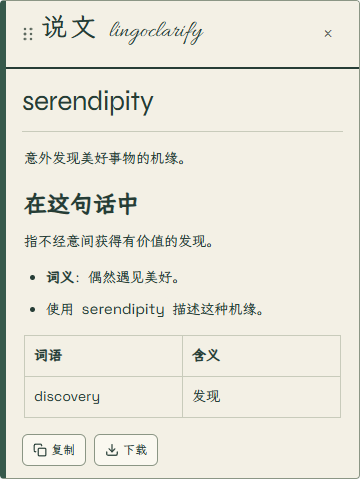
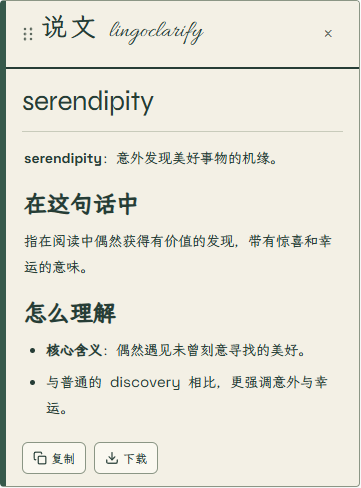
docs: refresh the 1.0.0 homepage and current UI screenshots

diff --git a/README.md b/README.md
@@ -1,146 +1,157 @@
+<p align="center">
+  <img src="icons/icon128.png" width="80" height="80" alt="说文：米白底、墨绿引号图标">
+</p>
+
 # 说文 · LingoClarify
 
-**网页划词翻译、语境解释与全文翻译。**
+**选中即读懂，整页也能译。**
 
-AI Translation & Contextual Explanation for the Web
+说文是一款使用自备 API Key 的浏览器扩展，支持网页划词翻译、语境解释与全文翻译。选中词语、句子或其他内容，在当前页面阅读回答；遇到整页外语，也可以开启全文翻译并随时切回原文。
 
-说文是一款使用自备 API Key 的 Manifest V3 浏览器扩展。选中网页上的词语、句子或其他内容，即可在当前页面查看流式回答；也可以翻译整页并随时切回原文。
+**当前版本：1.0.0** · 原生 Manifest V3 · 无需构建 · 已在 Microsoft Edge 中验收
 
-当前版本：**1.0.0**。源码可直接在 Edge 中加载，无需构建或安装 npm 依赖。
+[安装与配置](#安装与配置) · [使用方法](#使用方法) · [接口与模型](#接口与模型) · [常见问题](#常见问题) · [开发说明](docs/DEVELOPMENT.md)
 
 ## 能做什么
 
-- **划词翻译与解读**：解释词义、概念、句意和语境，也能处理代码、公式、表格中的选区及不完整片段。
-- **全文翻译**：处理视口附近及滚动出现的文字，继续响应动态新增、更新或展开的内容，支持原文/译文切换与取消。
-- **流式 Markdown 浮层**：正文按动画帧逐步显示 Markdown 原文，播放完成后排版为标题、强调、列表、引用和代码等；可按住顶部拖动。
-- **复制与笔记下载**：复制回答的 Markdown 原文，或下载包含所选原文和回答的 TXT。
-- **解释与翻译分别配置**：两个用途可选择不同厂家、模型和语言；各厂家保存自己的 Key 和模型列表。
-- **自定义接口**：可连接满足兼容协议的第三方网关、聚合服务或本机服务。
-- **三种主题**：纸本文笺（默认）、清浅青、冷灰蓝，设置、划词浮层与全文工具栏同步切换。
+| 功能 | 使用体验 |
+| --- | --- |
+| 划词翻译与语境解释 | 解释词义、概念和句意，也能结合选区处理代码、公式、表格与不完整片段 |
+| 全文翻译 | 翻译视口附近和滚动出现的文字，响应动态内容，支持原文/译文切换与取消 |
+| 可拖动的流式浮层 | 回答逐帧显示，完成后排版为 Markdown；可拖到合适位置阅读 |
+| 复制与笔记下载 | 复制完整 Markdown 原文，或下载包含所选原文和回答的 TXT |
+| 两套独立用途配置 | 解释与翻译可分别选择厂家、模型、语言及思考设置 |
+| 自定义兼容接口 | 连接支持所需协议的第三方网关、聚合服务或本机服务 |
+| 三种阅读配色 | 纸本文笺（默认）、清浅青、冷灰蓝，设置页、结果浮层与全文工具栏同步切换 |
 
-## 安装与首次配置
+默认的**纸本文笺**采用米白纸色与墨绿文字，扩展图标也使用相同配色。中文使用本地霞鹜文楷屏幕阅读版，英文正文与标题使用 Space Grotesk / Syne，浮层英文字标使用 Allura 连笔手写体；字体随扩展打包，无需访问字体 CDN。
 
-需要 Edge、所选服务的 API Key，以及兼容的模型列表与流式生成接口。扩展本身不提供免费模型额度；调用费用和权限由所选服务决定。
+## 界面预览
 
-克隆仓库：
+### 设置页
+
+<img src="docs/materials/screenshots/settings.png" width="390" alt="说文 1.0.0 设置页：纸本文笺配色、模型选择、思考模式与划词触发设置">
+
+### 划词结果
+
+<img src="docs/materials/screenshots/result.png" width="360" alt="说文划词浮层：固定品牌字标、词条标题、Markdown 回答与复制下载按钮">
+
+截图来自隔离 Edge 中实际加载的扩展，使用合成配置、网页与本机模拟回答。设置页截图展示扩展页面内容，不是原生工具栏弹出窗口；截图不代表真实模型质量或速度。来源见[公开材料说明](docs/materials/README.md)。
+
+## 安装与配置
+
+### 1. 获取源码
+
+[下载 main 分支 ZIP](https://github.com/siwenyu1213/LingoClarify/archive/refs/heads/main.zip)，解压后保留完整文件夹；也可以使用 Git：
 
 ```bash
 git clone https://github.com/siwenyu1213/LingoClarify.git
 ```
 
-也可以在 GitHub 点击 **Code → Download ZIP**，解压后使用包含 `manifest.json` 的文件夹。
+### 2. 在 Edge 中加载
 
-1. 打开 `edge://extensions`，开启“开发人员模式”。
-2. 点击“加载解压缩的扩展”，选择包含 `manifest.json` 的项目根目录。
-3. 点击“说文 · LingoClarify”图标，进入设置窗口。
-4. 在“解释”标签选择模型厂家。使用自定义服务时，先通过“配置自定义接口”保存地址。
-5. 填写该服务的 Key，点击“保存 API Key”，等待模型列表加载，再选择模型和解释语言。
-6. 在“全文翻译”标签配置翻译用途的厂家、模型与目标语言，然后点击“保存设置”。
-7. 打开普通 HTTP/HTTPS 网页，选中文字开始使用。
+1. 打开 `edge://extensions`，开启**开发人员模式**。
+2. 点击**加载解压缩的扩展**，选择包含 `manifest.json` 的项目根目录。
+3. 将“说文 · LingoClarify”固定到工具栏，点击图标打开设置。
 
-![说文设置窗口](docs/materials/screenshots/settings.png)
+根目录可直接加载，无需安装 npm 依赖或执行构建命令。其他浏览器需另行验收。
 
-截图来自实际 Edge 中的扩展设置页，使用本机模拟接口与合成配置，展示当前界面。
+### 3. 配置模型服务
 
-所有下拉列表采用自绘菜单，长列表可搜索，支持键盘选择与Esc关闭。中文使用本地霞鹜文楷屏幕阅读版，英文使用Space Grotesk/Syne，字体随扩展打包，无需连接字体CDN。
+需要所选服务的 API Key，以及兼容的模型列表和流式生成接口。扩展本身不提供免费模型额度；调用费用、权限和额度由所选服务决定。
 
-在底部保存按钮旁选择配色，选择后自动保存，无需点击“保存设置”。三种配色共用词典式布局：题签、页签、当前模型、语言与划词触发设置；主题切换不保存正在编辑的 Key、厂家、模型或语言草稿。
+1. 在**解释**标签选择模型厂家。使用自定义服务时，先通过**配置自定义接口**保存地址。
+2. 填写 Key，点击**保存 API Key**，等待接口模型列表加载，然后选择模型与解释语言。
+3. 在**全文翻译**标签配置翻译用途的厂家、模型与目标语言。
+4. 选择**选中即解释**或**仅右键菜单**，点击**保存设置**。
+5. 打开普通 HTTP/HTTPS 网页，选中文字开始使用。
 
-## 怎么使用
+两个用途选择同一家时共用该厂家的连接；选择不同厂家时，各自使用对应的 Key。模型下拉列表支持搜索和键盘选择。底部配色选择后自动保存，不需要额外点击保存按钮，也不会提交正在编辑的 Key、模型或语言草稿。
+
+## 使用方法
 
 ### 划词翻译与解释
 
-默认选中文字后自动弹出回答，也可以选中文字后右键选择 **“📖 说文：解释选中文字”**。
-
-在设置页的思考强度区域下方，通过“划词触发”选择“选中即解释”或“仅右键菜单”，点击“保存设置”后生效。仅右键模式下，选中文字不会自动请求；右键菜单在两种模式中都可使用。
+默认选中文字后自动弹出回答。也可以选中文字，再右键选择 **“📖 说文：解释选中文字”**。设为“仅右键菜单”后，选中文字不会自动发起请求，右键入口继续可用。
 
 | 选中的内容 | 处理方式 |
 | --- | --- |
-| 外语词语、短语和短片段 | 先给中文含义或译文，再解释词义、概念及必要的语境差异 |
-| 外语完整句子或段落 | 使用翻译配置给出目标语言译文，必要时补充文中含义；完成后可点“解释此句” |
-| 中文词语、名称或句段 | 解释概念、整体意思及关键关系 |
-| 代码、公式、指标、表格或不完整片段 | 使用解释配置，结合选区结构与必要材料处理 |
+| 外语词语、短语与短片段 | 先给中文含义或译文，再解释词义、概念和必要的语境差异 |
+| 外语完整句子或段落 | 使用翻译配置给出目标语言译文，必要时补充文中含义；完成后可点击“解释此句” |
+| 中文词语、名称或句段 | 解释概念、整体意思与关键关系 |
+| 代码、公式、指标、表格或不完整片段 | 使用解释配置，结合选区结构和必要材料处理 |
 
-扩展先在本地判断选区类型，再发送一次生成请求。分类规则不是完整语言识别器，实际解释质量仍取决于模型和提供的材料。
+扩展先在本地判断选区类型，再发送一次生成请求。分类规则并非完整语言识别器，实际回答取决于模型与提供的材料。
 
-浮层会尝试避开原文选区，空间不足时限制高度并在内部滚动。**在顶部按住鼠标左键即可拖动**，按下时显示抓取光标，松开后恢复。拖动后的位置在流式更新和页面滚动时保留；重新划词会重新自动定位。点击浮层外部、关闭按钮或按 Esc 可关闭。
+- **移动浮层**：在顶部按住鼠标左键拖动。拖动后的位置在流式更新和页面滚动时保留；重新划词后恢复自动定位。
+- **关闭浮层**：点击外部、关闭按钮，或按 `Esc`。
+- **阅读回答**：流式阶段逐帧显示 Markdown 原文，可能暂时看到 `**`、`#` 等标记；队列播放完成后统一安全排版，支持标题、强调、列表、引用、代码、表格和链接。长代码与表格可以横向滚动。
+- **复制或保存**：正文与思考都播放完成后显示操作按钮。复制保留 Markdown 原文；下载保存为 `笔记/说文_时间戳.txt`，包含所选原文和完整回答。“已开始下载”表示浏览器已接受任务，最终状态以下载管理器为准。
 
-![说文划词结果浮层](docs/materials/screenshots/result.png)
-
-截图中的回答由本机模拟接口提供，仅演示界面与 Markdown 排版，不代表真实模型效果。
-
-回答优先给出核心译文、定义或结论，必要时用小标题和列表组织解释。概念可配简短例子，翻译不额外生成例句。实际格式由模型决定。
-
-浮层支持 Markdown 标题、加粗、斜体、列表、引用、代码、表格、链接等显示；表格与长代码可独立横向滚动。复制保留 Markdown 原文。下载文件位于浏览器下载目录的 `笔记/说文_时间戳.txt`；“已开始下载”表示浏览器已接受任务，最终保存状态以下载管理器为准。
-
-流式阶段先逐帧显示 Markdown 原文，因此可暂时看到 `**`、`#` 等标记；队列播完后统一安全排版一次。正文与思考过程独立播放，每个区域每帧最多追加2048字符；完成消息不会清空后重播。复制、下载和“解释此句”在两条队列播完后出现。
+浮层会尝试避开原文，空间不足时限制高度并在内部滚动。回答优先给出核心译文、定义或结论，必要时使用小标题、列表或概念例子；实际格式由模型决定。
 
 ### 全文翻译
 
 在普通网页空白处右键选择 **“🌐 说文：全文翻译”**。
 
-顶部工具栏显示进度，可切换原文/译文或取消。译文按原有文本节点写入，保留链接、图片、强调结构及元素引用；滚动附近的内容和动态文字会继续处理。取消时恢复仍由扩展写入的文字，尽量保留网页自身的更新。
+页面顶部中央显示进度栏，可切换原文/译文或取消。栏下方的**方框箭头**用于收起或展开整条进度栏；隐藏后翻译继续运行，展开时显示最新进度。隐藏时再次通过右键启动全文翻译，也会打开当前进度栏。
 
-进度栏位于网页顶部中央，桌面宽度约为页面的三分之一，窄屏自动适应。栏下方的 **方框箭头按钮** 可收起整条进度栏，再点同一个按钮即可展开；收起后只保留居中的向下箭头，翻译继续运行。隐藏时再次通过右键菜单选择“全文翻译”也会打开当前进度栏。每次新启动翻译默认展开，取消翻译会一并移除进度栏和箭头按钮。
+翻译覆盖视口附近、滚动出现和动态新增的文字，按原有文本节点写入，保留链接、图片与强调结构。取消时恢复仍由扩展写入的文字，尽量保留网页自身的更新。每次新任务默认展开进度栏。
 
-复杂页面和行内标签切分的句子仍可能影响翻译质量或布局。可编辑区域、代码及标记为禁止翻译的区域不会作为全文任务发送。全文翻译只写入译文，不附加解释。
+可编辑区域、代码和标记为禁止翻译的区域会跳过。复杂页面、行内标签切分和网页自身更新仍可能影响翻译质量或布局；全文翻译只写入译文，不附加解释。
 
-## 厂家、模型与接口
+## 接口与模型
 
-设置页内置 **OpenAI、DeepSeek、Anthropic、Google、阿里千问、月之暗面、智谱、MiniMax、xAI、Mistral AI** 的地址预设，另有“自定义接口”。
+设置页提供 OpenAI、DeepSeek、Anthropic、Google、阿里千问、月之暗面、智谱、MiniMax、xAI、Mistral AI 的地址预设，以及**自定义接口**。
 
-预设用于地址选择，**不等于每家原生协议或每款模型都已验证兼容**。所选服务必须支持下列请求；只提供其他原生协议的服务需要兼容网关。
+地址预设不等于该厂家全部原生协议或所有模型均已兼容。所选服务需要支持以下请求；只提供其他原生协议的服务需通过兼容网关接入。
 
-| 用途 | 当前协议要求 |
+| 用途 | 协议要求 |
 | --- | --- |
 | 鉴权 | `Authorization: Bearer <API Key>` |
 | 模型列表 | `GET <Base URL>/models`，返回兼容的 `data` 列表 |
 | 生成 | `POST <Base URL>/chat/completions` |
 | 流式正文 | OpenAI 格式 SSE，正文位于 `choices[0].delta.content` |
 
-模型选项来自所选接口返回的文本型号，完整模型 ID 自动保存。每次打开设置页、切换已配置厂家或保存配置时会查询列表；成功静默更新，失败显示具体提示。同一连接的已有列表可在查询失败时保留。
+模型选项来自所选接口返回的文本型号，完整模型 ID 自动保存。已有列表可在查询失败时保留；没有兼容模型列表且没有可用缓存时，无法新选模型。列表查询成功也不保证拥有生成权限。当前不支持仅有 Responses API 的服务或特殊鉴权协议。
 
-两个标签选择同一家时共用该厂家的连接；选择不同厂家时分别使用各自的 Key。不同厂家不能共用一个 OpenAI 官方 Key。
+自定义接口需要明确保存地址，支持 Base URL 或完整的 `/chat/completions` 地址。缺少地址时不发送请求；更改地址后需重新加载列表、选择模型并保存。其他地域或网关地址也通过自定义接口配置。
 
-自定义接口必须保存自己的地址。支持填写 Base URL，也支持粘贴完整 `/chat/completions` 地址并自动归一化；缺少地址时不发送请求。修改自定义地址后，需要等待新列表、重新选择模型并保存。其他地域或不同网关同样使用自定义接口。
+### DeepSeek 思考设置
 
-解释语言提供中文、英文和自动选项；外语词语的翻译加解释固定以中文输出。翻译目标语言提供中、英、日、韩、法、德、西、葡、俄、阿拉伯语。
+当实际接口主机为 `api.deepseek.com` 时，解释和翻译各自提供**DeepSeek 思考模式**开关，默认关闭。打开后允许模型思考；关闭后显式发送关闭参数，同时取消并禁用深度思考，不发送思考强度。
 
-**DeepSeek 官方接口提供独立的“DeepSeek 思考模式”开关**，放在“深度思考模式”上方，解释和全文翻译分别配置，默认关闭。开启后发送 `thinking.type = enabled`，允许模型思考；关闭后发送 `disabled`，同时取消并禁用深度思考、不发送思考强度。重新打开总开关不会自动恢复深度思考。
-
-总开关打开后，可再开启“深度思考模式”并选择思考强度；关闭深度思考时仍允许普通思考，采用模型默认强度。点击“保存设置”后，配置用于划词、再次解释、全文及批量翻译。参数依据 [DeepSeek 官方文档](https://api-docs.deepseek.com/zh-cn/guides/thinking_mode/)；当前文档将中等强度映射为高。
-
-仅对实际主机 `api.deepseek.com` 使用这些专用参数，包括显式填写该官方地址的自定义连接。其他接口开启深度思考时发送 `reasoning_effort`；关闭时省略该参数，采用模型默认行为。第三方网关不凭模型名套用 DeepSeek 专用参数。
-
-当前不支持仅有 Responses API 的服务或特殊鉴权协议。没有兼容模型列表、且没有可用缓存时，无法在设置页新选模型；列表查询成功也不保证生成权限。
+总开关打开后，可进一步启用**深度思考**并选择强度。关闭再打开总开关不会自动恢复深度思考。配置保存后用于划词、再次解释、全文与批量翻译；第三方网关不会仅凭模型名套用 DeepSeek 专用参数。其他兼容接口开启深度思考时发送 `reasoning_effort`，关闭时省略该参数。
 
 ## 数据与隐私
 
-- API Key 和设置保存在浏览器扩展的 `chrome.storage.local` 中；保存 Key 后输入框收起，可重新填写或取消编辑。
-- 划词默认结合所在句、必要的邻近文字和结构信息。这些材料与选中文字一起发送到你选择的模型服务；全文翻译发送待翻译文字，批量任务可使用页面标题。网页地址不加入生成提示词。
+- Key 和设置保存在浏览器扩展的 `chrome.storage.local` 中。保存 Key 后输入框收起，可重新填写或取消编辑。
+- 划词时，选中文字及所在句、必要的邻近文字与结构信息会发送到你选择的模型服务。全文翻译发送待翻译文字，批量任务可使用页面标题；网页地址不加入生成提示词。
 - 公开模型目录用于辅助显示厂家和型号名称，刷新时不发送你的 Key 或网页内容。
-- Markdown 解析与清理由扩展随附的本地库完成。远程图片不会自动加载，HTML 不作为网页代码执行，只有 HTTP/HTTPS 链接可点击。
-- 扩展没有提供对话云同步或开发者托管的生成服务；模型服务的数据处理规则由该服务决定。
+- Markdown 在本地解析与清理，远程图片不会自动加载，HTML 不作为网页代码执行，只有 HTTP/HTTPS 链接可点击。
+- 扩展没有对话云同步或开发者托管的生成服务；模型服务的数据处理规则由对应服务决定。
 
-## 更新与常见问题
+## 常见问题
 
-更新源码后，在 `edge://extensions` 点击“重新加载”，并刷新已打开的网页。
+更新源码后，在 `edge://extensions` 点击**重新加载**，并刷新已打开的网页。已有厂家、Key、模型和主题配置可继续使用。
 
 | 情况 | 处理方法 |
 | --- | --- |
 | 提示扩展已重载 | 刷新当前网页后重新划词 |
-| 模型列表为空、Key 无效或查询超时 | 核对所选厂家、Key、账号权限与网络；确认服务提供兼容的 `/models` |
-| 自定义接口提示缺少地址 | 打开“配置自定义接口”，保存服务商给出的地址 |
+| 模型列表为空、Key 无效或查询失败 | 核对厂家、Key、权限、网络和 `/models` 兼容性 |
+| 自定义接口提示缺少地址 | 先打开“配置自定义接口”保存服务商地址 |
 | 模型不支持思考参数 | 关闭该用途的深度思考后重试 |
 | 设置页显示“扩展当前已停用” | 点击“启用扩展”，然后刷新网页 |
-| 浮层仍挡住原文 | 按住顶部拖到其他位置；选区占满视口时无法保证完全避让 |
-| 下载失败 | 点击下载按钮重试，并检查浏览器下载管理器 |
+| 浮层遮挡原文 | 按住顶部拖动；选区占满视口时无法保证完全避让 |
+| 回答先显示 Markdown 标记 | 属于逐帧播放过程，播放结束后会排版 |
+| 下载失败 | 重试下载，并检查浏览器下载管理器 |
+| 内部页面或商店页没有反应 | 浏览器对这些页面有限制，请在普通 HTTP/HTTPS 网页使用 |
 
-内容脚本不能在浏览器内部页面、扩展商店等受限制页面运行。当前没有代码语法高亮、LaTeX 公式或 Mermaid 图渲染。
+当前没有代码语法高亮、LaTeX 公式或 Mermaid 图渲染。Chrome 及其他浏览器、真实供应商生成质量与速度需单独验收。
 
 ## 开发与验证
 
-项目使用原生 JavaScript、HTML、CSS。根目录是扩展运行文件；本地第三方库位于 `vendor/`，验证工具位于 `scripts/`。
+项目使用原生 JavaScript、HTML、CSS，根目录直接作为扩展加载；本地第三方库与字体保存在 `vendor/`，可复用验证工具位于 `scripts/`。
 
 ```powershell
 node scripts/verify.mjs --report artifacts/qa/static-check.json
@@ -148,39 +159,22 @@ node scripts/verify-api.mjs
 git diff --check
 ```
 
-静态检查和后台模拟不能替代浏览器交互或真实模型验收。实际 Edge 验证使用本机已有 Playwright、隔离配置和合成接口；各厂家真实生成、模型质量与耗时需要有效凭据另行确认。
+静态检查验证语法、MV3 基本入口、本地资源与版本一致性；后台模拟检查配置、路由、流式响应与失败处理。它们不能替代实际浏览器交互或有效凭据的供应商验收。浏览器验证使用隔离 Edge、合成页面/Key 和本机接口，详细范围与证据见[开发与验收说明](docs/DEVELOPMENT.md)。
 
-- [开发与验收方法](docs/DEVELOPMENT.md)
-- [第三方库来源与许可证](vendor/README.md)
-- [项目工作规则](AGENTS.md)
-
-仓库保留扩展源码、本地运行依赖与许可证、使用和开发说明、可复用验证工具，以及本页使用的公开截图。交接材料、逐次任务验收/审查/环境记录、调试 source map 和生成产物仅在本地保存，由忽略规则排除。
-
-## 根目录文件用途
-
-| 文件 | 实际功能 |
+| 模块 | 职责 |
 | --- | --- |
-| `.gitattributes` | 统一文本LF行尾，声明压缩包、图片与字体为二进制 |
-| `.gitignore` | 排除生成产物、私有材料、凭据和开发缓存 |
-| `AGENTS.md` | 规定仓库维护、验证、材料存放及提交交付规则 |
-| `README.md` | 介绍扩展功能、安装配置、使用方法与常见问题 |
-| `manifest.json` | 声明MV3权限、后台/内容脚本、设置页和本地资源 |
-| `background.js` | 管理右键菜单、流式API代理、思考参数、缓存与下载 |
-| `config.js` | 管理默认值、配置迁移、厂家连接和地址校验 |
-| `model-catalog.js` | 查询厂家模型目录和接口列表，过滤可用文本模型 |
-| `selection.js` | 分析选区、保存Range快照并提取预算内上下文 |
-| `selection-prompts.js` | 选择解释/翻译任务并组装系统要求和材料 |
-| `content.js` | 检测自动/右键划词，显示流式浮层并处理拖动、复制和导出 |
-| `content.css` | 设置划词浮层、思考区域、操作按钮与全文工具栏样式 |
-| `content-fullpage.js` | 按需翻译网页Text节点，处理动态内容、原文切换和取消 |
-| `markdown.js` | 共用rAF文本播放队列，完成后安全排版Markdown并保持阅读位置 |
-| `popup.html` | 提供厂家、模型、语言、思考、触发方式和主题设置控件 |
-| `popup.css` | 管理设置弹窗布局、缩放/窄屏适应及禁用状态 |
-| `popup.js` | 保存设置和Key，查询模型并处理开关联动、错误和草稿 |
-| `select-menu.js` | 设置页自绘菜单、搜索、键盘及原选项/禁用状态同步 |
-| `theme.css` | 定义词典界面的三套配色、字体、划词批注与全文工具栏外观 |
-| `theme.js` | 保存和同步主题，并加载本地图标与字体 |
+| `manifest.json` | 扩展入口、权限、内容注入、版本与图标 |
+| `background.js` | 消息、右键菜单、API 代理、流式响应、缓存与下载 |
+| `content.js` / `content.css` / `markdown.js` | 划词浮层、拖动、逐帧播放与安全 Markdown 排版 |
+| `content-fullpage.js` | 按需注入的全文翻译、动态内容、切换与取消 |
+| `popup.*` / `select-menu.js` | 设置界面、Key/模型配置与自绘菜单 |
+| `config.js` / `model-catalog.js` | 连接配置、迁移、目录与接口模型查询 |
+| `selection.js` / `selection-prompts.js` | 选区分析、上下文提取与提示词构建 |
+| `theme.js` / `theme.css` / `icons/` | 配色同步、本地字体与品牌资源 |
 
-## 许可证
+仓库只上传运行源码、资源与许可证、使用/开发说明、可复用工具和公开材料。私有网页、Key、浏览器配置、逐次任务记录及生成报告仅保存在本地。
 
-项目沿用 MIT 许可声明。本地第三方库各自的许可证随 `vendor/` 保留，见[第三方库说明](vendor/README.md)。
+- [项目工作规则](AGENTS.md)
+- [第三方库来源与许可证](vendor/README.md)
+- [本地字体来源与 OFL 许可](vendor/fonts/README.md)
+- [公开截图来源](docs/materials/README.md)

diff --git a/docs/materials/README.md b/docs/materials/README.md
@@ -6,17 +6,9 @@
 
 | 文件 | 来源与用途 |
 | --- | --- |
-| `screenshots/settings.png` | 实际扩展设置页，展示文楷题签、用途页签、当前模型、自绘菜单触发按钮与语言/触发设置 |
-| `screenshots/result.png` | 合成英语网页中的实际划词浮层，展示纸页侧边、选区、词条与模拟Markdown回答 |
+| `screenshots/settings.png` | 1.0.0实际扩展设置页，展示文楷题签、用途页签、DeepSeek Chat（演示）、思考开关与语言/触发设置；Key为合成值且编辑区收起 |
+| `screenshots/result.png` | 合成英语网页中的实际划词浮层，展示固定字标、28px词条、14px正文及模拟Markdown回答；英文使用Allura连笔字标 |
 
-原始本机证据分别为`artifacts/qa/popup-auto-height/settings/deepseek-off.png`和`artifacts/qa/result-calligraphy/result.png`。截图不证明真实供应商生成能力、回答质量或速度。生成证据及逐次记录仅本地保存；可复用验证方法见[开发说明](../DEVELOPMENT.md)。
+当前截图在2026-10-16从1.0.0的main代码重新生成，浏览器为Edge155.0.4283.45，使用独立profile；供应商请求在测试Worker中转到本机HTTP/SSE，外部网络被阻止。未读取日常浏览器存储或真实凭据。原始本机证据为 `artifacts/qa/readme-1.0.0/screenshots.json` 及同目录两张PNG，具体目录以本次README工作树为准。截图不证明真实供应商生成能力、回答质量或速度。生成证据及逐次记录仅本地保存；可复用验证方法见[开发说明](../DEVELOPMENT.md)。
 
-2026-10-16菜单与字体更新：同目录manufacturer-open.png（仅本地）展示自绘厂家菜单，中文使用文楷屏幕版、英文使用Space Grotesk/Syne。截图中的厂家、型号和回答仍为合成数据。
-
-2026-10-16输出字号更新：result.png使用32px原文词条标题、18px正文与23px小标题，继续使用本地文楷/Space/Syne；合成词条和回答由本机SSE提供。
-
-2026-10-16后续字号微调：当前result.png词条标题28px、正文14px；仍为隔离Edge中的合成回答。
-
-2026-10-16品牌字标更新：当前result.png顶部采用固定“说文 lingoclarify”，中文文楷书写字与英文Syne组合，仍为隔离Edge中的合成词条/回答。
-
-2026-10-16英文字标后续更新：当前result.png的lingoclarify使用Allura连笔手写体，增加行高与笔画留白，仍为隔离Edge中的合成回答。字体来源及OFL许可见vendor/fonts/README.md。
+两张截图均使用纸本文笺配色，中文使用本地文楷，英文正文/标题使用Space Grotesk/Syne；来源及OFL许可见[字体说明](../../vendor/fonts/README.md)。README顶部图标为本项目原创引号，米白底#f3f0e5、墨绿#263d36，与默认主题一致。

diff --git a/docs/DEVELOPMENT.md b/docs/DEVELOPMENT.md
@@ -137,6 +137,12 @@ git diff --cached
 
 GitHub同步必须核对远程提交和默认分支内容，不能把本地commit或模拟通过当作上传成功。
 
+## 2026-10-16 GitHub首页README更新
+
+用户明确选择更新main仓库首页。fetch确认PR #13已合入main，基线55f781d，运行文件与090150f一致；共享开发分支同时新增独立打包记录，因此使用专用工作树处理本次README，不上传对方提交。README按功能/预览/安装配置/使用/接口/隐私/常见问题/开发组织，加入1.0.0版本和纸本文笺图标、main源码ZIP入口，压缩模块说明；同步公开材料来源，两张截图从实际1.0.0扩展重新生成。扩展运行源码与版本未改。
+
+Node24.18.1、Edge155.0.4283.45和已有Playwright1.62.1，在独立profile中打开实际设置页与合成网页，确认v1.0.0、合成Key编辑区收起、无错误提示、固定字标及Markdown操作按钮后截图，截图已视觉复核；供应商请求只转本机SSE，无真实账号验收。55项静态与git diff --check通过，README及材料说明的相对文件/图片和目录锚点全部核对，GitHub Markdown渲染预览见本轮证据。报告与预览位于本工作树 `artifacts/qa/readme-1.0.0/`，最终main SHA及远程文件核验见 `remote-verification.json`。未重跑无关API/完整交互或原生工具栏弹窗验收。Description只在原工作目录更新，不进入提交。
+
 ## 2026-10-16 版本号统一为1.0.0
 
 用户要求将目前版本改为1.0.0。基线 `codex/ui-reading-redesign@c01877f`，工作区干净，fetch后与上游0/0；同步manifest.json、popup.html及README/本手册当前版本说明。仅调整版本标识，既有功能与配置格式沿用，历史验收记录中的旧版本保留为当时事实。Description当前版本及维护记录同步，但继续忽略、不提交。
